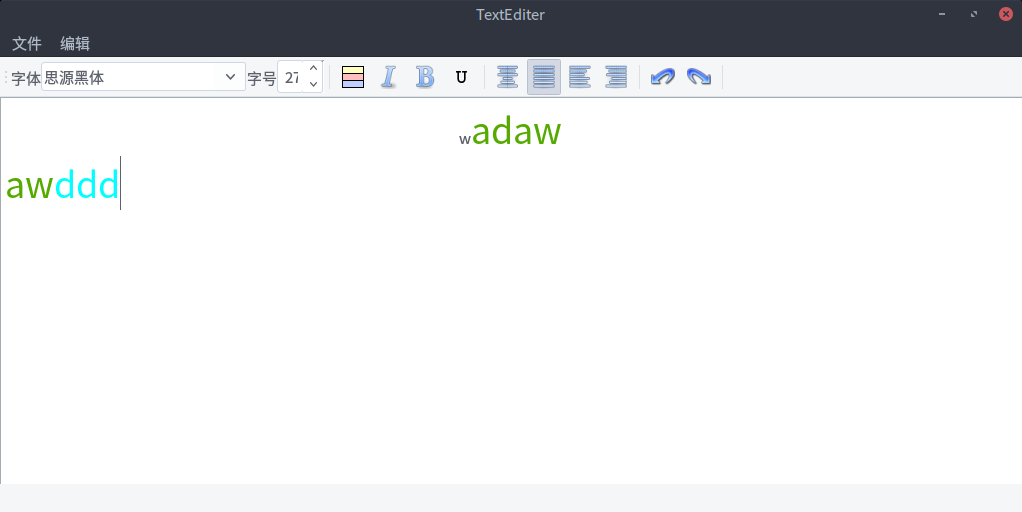
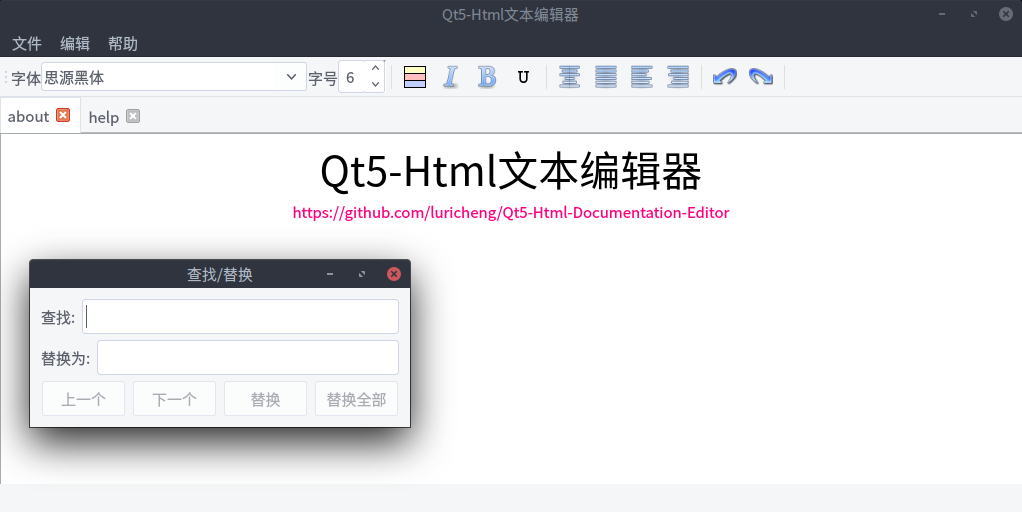
Add files via upload

diff --git a/TextEditer/findorrepalce.cpp b/TextEditer/findorrepalce.cpp
@@ -1,0 +1,90 @@
+#include "findorrepalce.h"
+#include "ui_findorrepalce.h"
+
+#include"QPalette"
+#include<QMessageBox>
+
+FindOrRepalce::FindOrRepalce(TextEditer *father) :
+    QWidget(NULL),
+    ui(new Ui::FindOrRepalce)
+{
+    ui->setupUi(this);
+
+    this->father=father;
+    this->setVisible(false);
+    this->ui->previous->setEnabled(false);
+    this->ui->next->setEnabled(false);
+    this->ui->replaceAll->setEnabled(false);
+    this->ui->replace->setEnabled(false);
+}
+
+FindOrRepalce::~FindOrRepalce()
+{
+    delete ui;
+}
+
+void FindOrRepalce::close(){
+    this->setVisible(false);
+}
+
+void FindOrRepalce::on_findLineEdit_textChanged(const QString &arg1)
+{
+    ui->next->setEnabled(!arg1.isEmpty());
+    ui->previous->setEnabled(!arg1.isEmpty());
+}
+
+void FindOrRepalce::findNext(bool foreward){
+    QTextEdit*textEdit=father->getCurrentTextEdit();
+    QString pToFind=ui->findLineEdit->text();
+    ui->next->setEnabled(true);
+    bool findAns;
+    if(foreward){
+        findAns=textEdit->find(pToFind);
+    }
+    else{
+        findAns=textEdit->find(pToFind,QTextDocument::FindBackward);
+    }
+    if(findAns==false){
+        textEdit->moveCursor(foreward?QTextCursor::Start:QTextCursor::End);
+        ui->replace->setEnabled(false);
+    }
+    else{
+        ui->replace->setEnabled(!ui->replaceLineEdit->text().isEmpty());
+        QPalette palette=textEdit->palette();
+        palette.setColor(QPalette::Highlight,palette.color(QPalette::Active,QPalette::Highlight));
+        textEdit->setPalette(palette);
+    }
+}
+
+void FindOrRepalce::on_previous_clicked()
+{
+    findNext(false);
+}
+
+void FindOrRepalce::on_next_clicked()
+{
+    findNext(true);
+}
+
+void FindOrRepalce::on_replace_clicked()
+{
+    QTextEdit*textEdit=father->getCurrentTextEdit();
+    QString str=ui->replaceLineEdit->text();
+    textEdit->textCursor().insertText(str);
+}
+
+void FindOrRepalce::on_replaceLineEdit_textChanged(const QString &arg1)
+{
+    ui->replaceAll->setEnabled(!arg1.isEmpty()&&
+                               !ui->findLineEdit->text().isEmpty());
+}
+
+void FindOrRepalce::on_replaceAll_clicked()
+{
+    QTextEdit*textEdit=father->getCurrentTextEdit();
+    QString p=ui->findLineEdit->text();
+    textEdit->moveCursor(QTextCursor::Start);
+    while(textEdit->find(p)){
+        textEdit->textCursor().insertText(ui->replaceLineEdit->text());
+    }
+}

diff --git a/TextEditer/textediter.cpp b/TextEditer/textediter.cpp
@@ -1,6 +1,8 @@
 #include "textediter.h"
 #include "ui_textediter.h"
 #include"QDir"
+#include<QMessageBox>
+//#include<findorrepalce>
 
 TextEditer::TextEditer(QWidget *parent) :
     QMainWindow(parent),
@@ -13,6 +15,9 @@ TextEditer::TextEditer(QWidget *parent) :
     tabIndex = 0;
     newFile();
 
+    //查找替换窗口
+    findOrRepalceWidget=new FindOrRepalce(this);
+
     //字号
     fontSizeSpinBox=new QSpinBox();
     fontSizeLabel=new QLabel(tr("字号"));
@@ -20,6 +25,7 @@ TextEditer::TextEditer(QWidget *parent) :
     QAction*before=ui->colorAction;
     before=ui->mainToolBar->insertWidget(before,fontSizeSpinBox);
     before=ui->mainToolBar->insertWidget(before,fontSizeLabel);
+
     //字体
     fontComboBox=new QFontComboBox();
     fontLabel=new QLabel(tr("字体"));
@@ -48,6 +54,9 @@ TextEditer::TextEditer(QWidget *parent) :
     connect(ui->closeAction,SIGNAL(triggered()),this,SLOT(close()));
 
 
+    //find
+    connect(ui->findAction,SIGNAL(triggered()),this,SLOT(findText()));
+    connect(ui->replaceAction,SIGNAL(triggered()),this,SLOT(findText()));
     //tool bar
 
     //font
@@ -71,8 +80,9 @@ TextEditer::~TextEditer()
 
 QTextEdit*TextEditer::getCurrentTextEdit(){
     int index=ui->tabWidget->currentIndex();
-    for(QLinkedList<std::pair<int,QTextEdit*> >::iterator it=list.begin();it!=list.end();++it){
-        if(it->first==index){
+    int counter=0;
+    for(QLinkedList<std::pair<int,QTextEdit*> >::iterator it=list.begin();it!=list.end();++it,++counter){
+        if(counter==index){
             return it->second;
         }
     }
@@ -110,4 +120,26 @@ void TextEditer::mergeCurrentTextFormat(QTextCharFormat *fmt){
     }
     cursor.mergeCharFormat(*fmt);
     text->mergeCurrentCharFormat(*fmt);
+}
+
+void TextEditer::findText(){
+    QTextEdit*textEdit=getCurrentTextEdit();
+    if(textEdit!=NULL){
+        this->findOrRepalceWidget->setVisible(true);
+    }
+    else{
+        QMessageBox::warning(this,tr("文本文件不存在"),tr("文本文件不存在，请先建立文本"));
+    }
+}
+
+void TextEditer::on_aboutAction_triggered(bool checked)
+{
+    newFile(tr("about"));
+    loadFile(getCurrentTextEdit(),tr("about"));
+}
+
+void TextEditer::on_actionHelp_triggered()
+{
+    newFile(tr("help"));
+    loadFile(getCurrentTextEdit(),tr("help"));
 }

diff --git a/TextEditer/file.cpp b/TextEditer/file.cpp
@@ -4,6 +4,19 @@
 #include"QFileDialog"
 #include"QDebug"
 
+int TextEditer::getIdxInTextEdits(int idx){//获取idx标号的TextEdits的真实标号
+    int ans=0;
+    for(QLinkedList<std::pair<int,QTextEdit*> >::iterator it = list.begin();it!=list.end();++it){
+        if(it->first!=idx){
+            ++ans;
+        }
+        else{
+            break;
+        }
+    }
+    return ans;
+}
+
 void TextEditer::openFile(){
     QString fileName = QFileDialog::getOpenFileName(this,"打开新文件");
     if(fileName.isEmpty()){//未选中文件
@@ -17,7 +30,7 @@ void TextEditer::openFile(){
             if(!title.isEmpty()){
                 ui->tabWidget->setTabText(it->first,title);//设置tab标题
             }
-            ui->tabWidget->setCurrentIndex(it->first);//设置当前tab
+            ui->tabWidget->setCurrentIndex(getIdxInTextEdits(it->first));//设置当前tab
             return;
         }
     }
@@ -28,12 +41,12 @@ void TextEditer::openFile(){
 
 void TextEditer::newFile(QString title){
     QTextEdit*newTextEdit = new QTextEdit();
-    if(title.isEmpty()||(title = getTitle(title)).isEmpty()){
+    if(title.isEmpty()&&(title = getTitle(title)).isEmpty()){
         title = "文本" + QString::number(tabIndex);
     }
     ui->tabWidget->addTab(newTextEdit,title);
     list<<std::make_pair(tabIndex,newTextEdit);
-    ui->tabWidget->setCurrentIndex(tabIndex);
+    ui->tabWidget->setCurrentIndex(getIdxInTextEdits(tabIndex));
     tabIndex++;
 }
 
@@ -86,5 +99,3 @@ void TextEditer::save(){
     }
     saveIn(index,fileName);
 }
-
-

diff --git a/TextEditer/textediter.h b/TextEditer/textediter.h
@@ -7,6 +7,10 @@
 #include"QSpinBox"
 #include"QLabel"
 #include"QFontComboBox"
+#include<findorrepalce.h>
+
+class FindOrRepalce;
+
 namespace Ui {
 class TextEditer;
 }
@@ -14,7 +18,7 @@ class TextEditer;
 class TextEditer : public QMainWindow
 {
     Q_OBJECT
-
+    friend class FindOrRepalce;
 public:
     explicit TextEditer(QWidget *parent = 0);
     ~TextEditer();
@@ -28,10 +32,16 @@ private:
     void loadFile(QTextEdit*textEdit,QString fileName);//加载文件
     QLinkedList<std::pair<int,QTextEdit*> >list;//first:tab的序号，second tabWidget中的QTextEdit的指针
     int tabIndex;//下个tab的序号
-    QTextEdit*getCurrentTextEdit();//返回当前的TextEdit
     QString getTitle(QString);//提取出文件名
     void mergeCurrentTextFormat(QTextCharFormat*fmt);
     void saveIn(int index,QString fileName);
+
+    int getIdxInTextEdits(int idx);
+
+    FindOrRepalce*findOrRepalceWidget;
+protected:
+    QTextEdit*getCurrentTextEdit();//返回当前的TextEdit
+
 protected slots:
     //menu bar
     void openFile();
@@ -39,6 +49,10 @@ protected slots:
     void closeTab(int);
     void save();
     void saveAs();
+
+    void findText();
+    //void replaceText();
+
     //tool bar
     void changeColor();
     void changeItalic();
@@ -50,6 +64,9 @@ protected slots:
     void setAlignRight();
     void setAlignCenter();
     void setAlignJustify();
+private slots:
+    void on_aboutAction_triggered(bool checked);
+    void on_actionHelp_triggered();
 };
 
 #endif // TEXTEDITER_H

diff --git a/TextEditer/findorrepalce.h b/TextEditer/findorrepalce.h
@@ -1,0 +1,43 @@
+#ifndef FINDORREPALCE_H
+#define FINDORREPALCE_H
+
+#include <QWidget>
+#include<QTextEdit>
+#include<QLinkedList>
+#include<textediter.h>
+
+class TextEditer;
+
+namespace Ui {
+class FindOrRepalce;
+}
+
+class FindOrRepalce : public QWidget
+{
+
+    Q_OBJECT
+    friend class TextEditer;
+public:
+    explicit FindOrRepalce(QWidget *parent = 0);
+    explicit FindOrRepalce(TextEditer *father);
+    ~FindOrRepalce();
+
+private:
+    Ui::FindOrRepalce *ui;
+    //QTextEdit*textEdit;//包含匹配串
+    TextEditer*father;
+    void findNext(bool);
+protected:
+    void setTextEdit(QTextEdit*);
+protected slots:
+    void close();
+private slots:
+    void on_findLineEdit_textChanged(const QString &arg1);
+    void on_previous_clicked();
+    void on_next_clicked();
+    void on_replace_clicked();
+    void on_replaceLineEdit_textChanged(const QString &arg1);
+    void on_replaceAll_clicked();
+};
+
+#endif // FINDORREPALCE_H

diff --git a/TextEditer/textformat.cpp b/TextEditer/textformat.cpp
@@ -58,6 +58,7 @@ void TextEditer::changeFont(QFont font){
     fmt.setFont(font);
     cursor.mergeCharFormat(fmt);
     text->mergeCurrentCharFormat(fmt);
+    fontComboBox->updateGeometry();
 }
 
 void TextEditer::setAlignLeft(){

diff --git a/TextEditer/findandreplacewidget.h b/TextEditer/findandreplacewidget.h
@@ -1,0 +1,11 @@
+#ifndef FINDANDREPLACEWIDGET_H
+#define FINDANDREPLACEWIDGET_H
+
+
+class findAndReplaceWidget
+{
+public:
+    findAndReplaceWidget();
+};
+
+#endif // FINDANDREPLACEWIDGET_H

diff --git a/TextEditer/main.cpp b/TextEditer/main.cpp
@@ -1,4 +1,5 @@
 #include "textediter.h"
+#include<findorrepalce.h>
 #include <QApplication>
 
 int main(int argc, char *argv[])

diff --git a/TextEditer/findandreplacewidget.cpp b/TextEditer/findandreplacewidget.cpp
@@ -1,0 +1,6 @@
+#include "findandreplacewidget.h"
+
+findAndReplaceWidget::findAndReplaceWidget()
+{
+
+}
